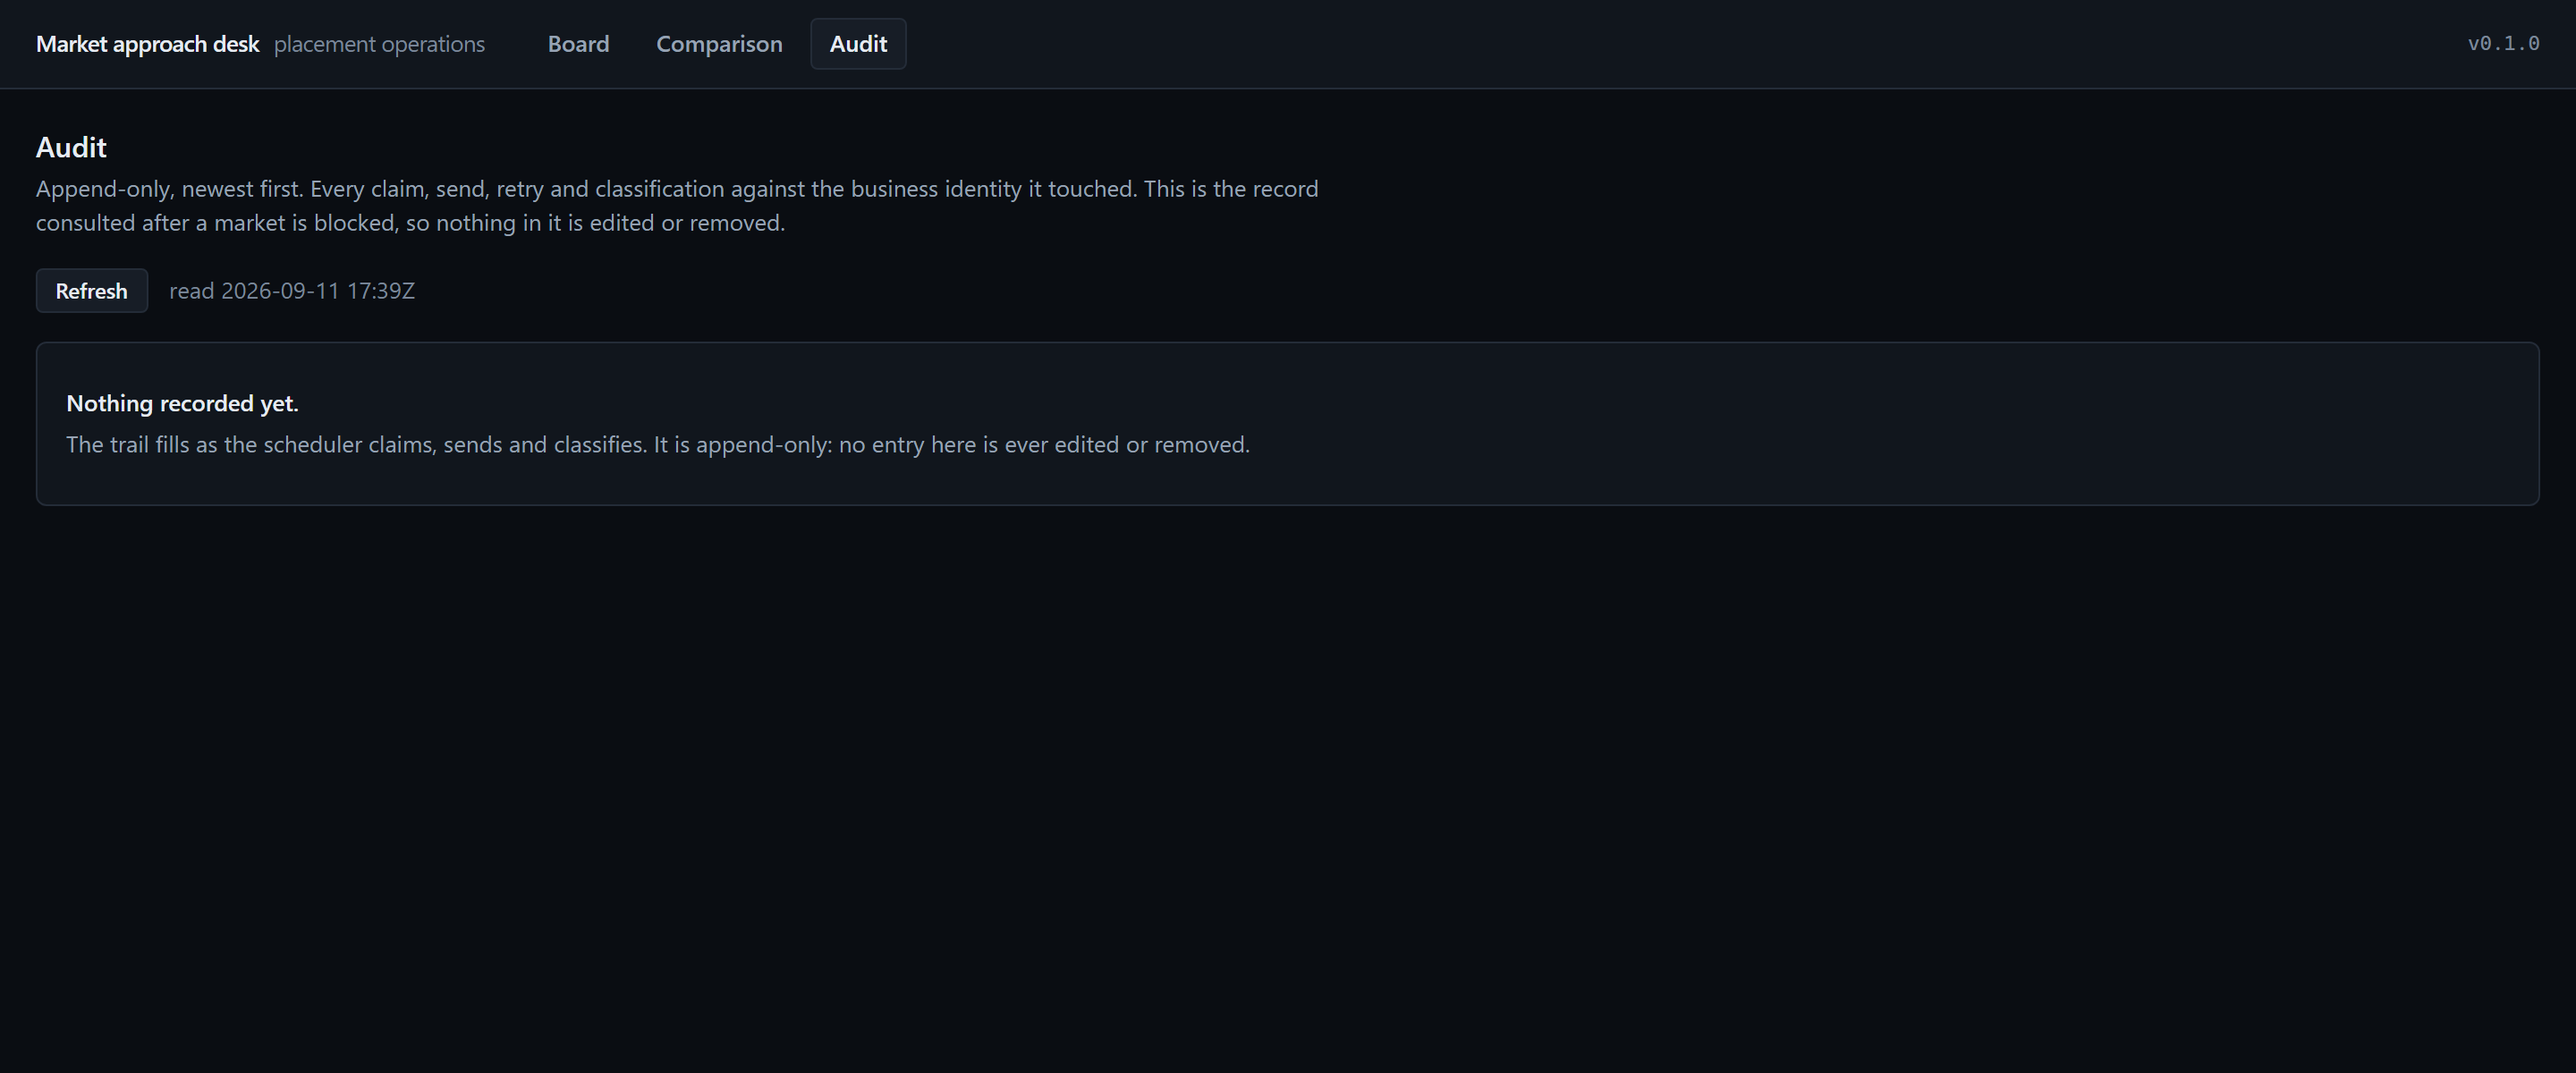
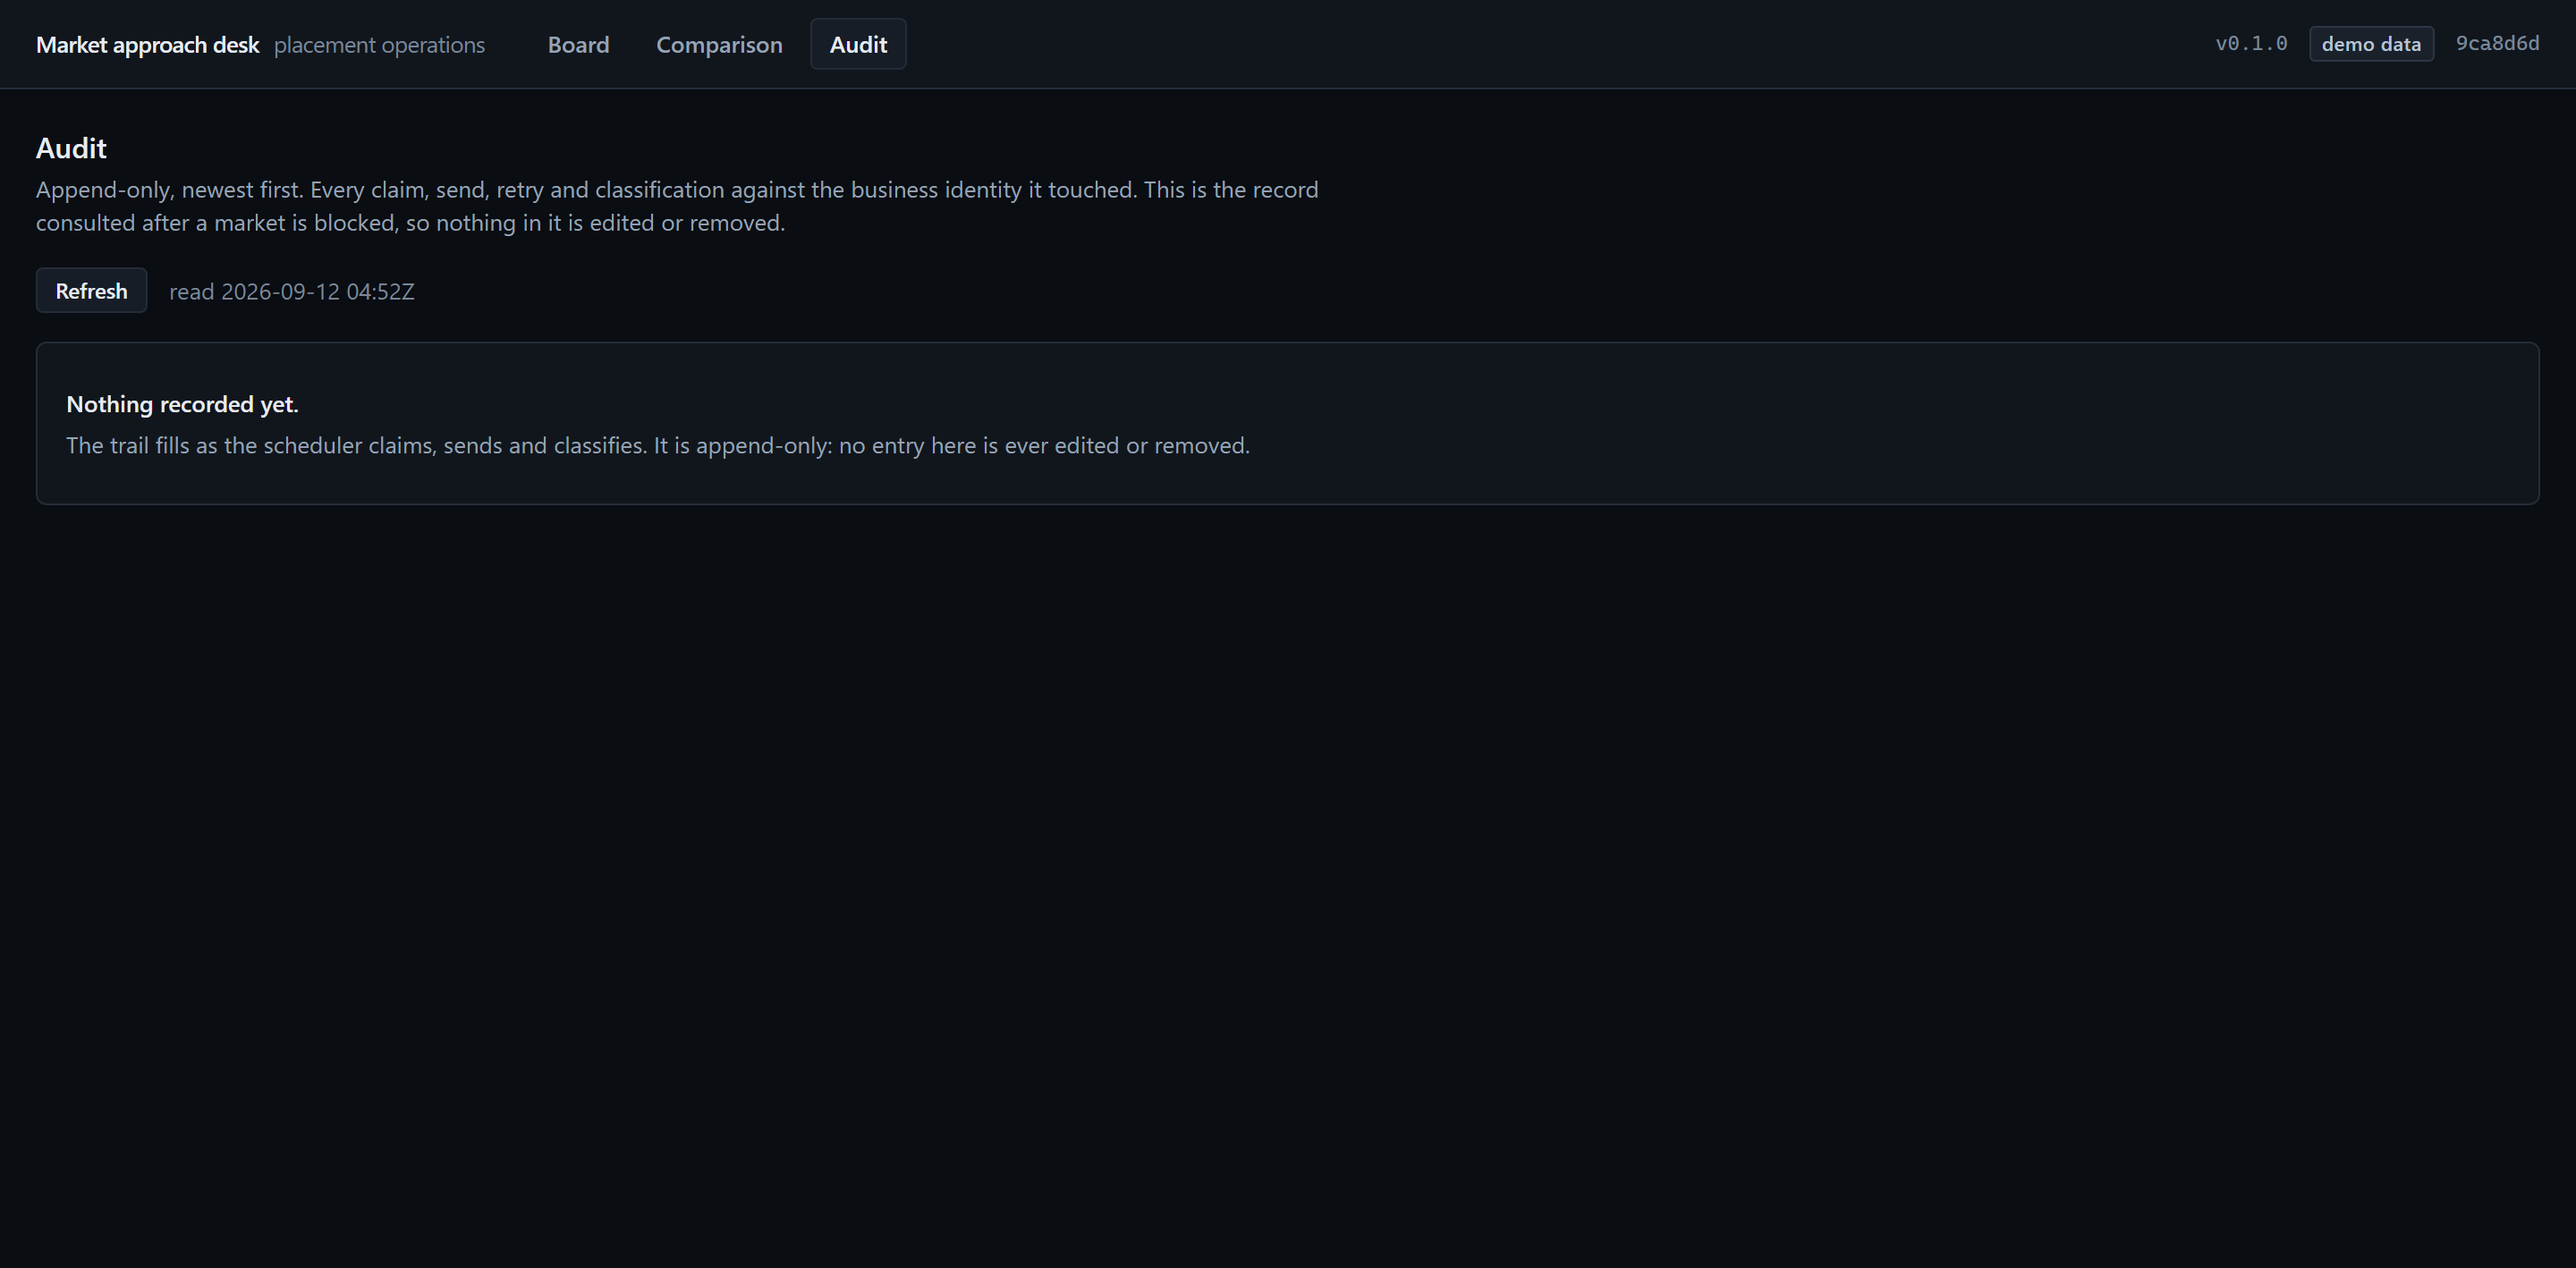
docs: record the live deployment, and retake the screenshots from it
The public demonstration is up: console on Vercel, API on Render as a Docker
web service from render.yaml, PostgreSQL on Neon. All three free tier.

README gains a live-demo section at the top carrying both URLs and the things
a reader has to know before drawing conclusions from the screen: the data is
synthetic, the Python arm is what is deployed, n8n is committed rather than
hosted, the comparison screen's 2-against-1 is measured rather than typed, no
live model has been called, and the first request after an idle period is slow
because the instance spins down.

docs/deployment.md's status section said "not yet deployed" and now records the
topology, the first-boot log, and what the public URLs actually answered.
/readyz is called out as the check that matters: /healthz touches nothing
external and MAD_POSTGRES_DSN has a localhost default, so a misspelled variable
name would produce a service that looks healthy and serves nothing.

The three screenshots are retaken from the deployed console rather than a local
run, and the README now says which they are — they carried no provenance before.

diff --git a/docs/deployment.md b/docs/deployment.md
@@ -107,18 +107,59 @@ n8n instance. That is stated on the screen itself, with the timestamp of the run
 
 ## Status
 
-**Not yet deployed.** Creating the Neon database, the Render service and the Vercel project is owner
-account action, and nothing in this repository can perform it.
+**Deployed and live.**
 
-What is verified, locally and end to end against the real image:
+| Layer | URL | Service | Plan | Region |
+|---|---|---|---|---|
+| Console | <https://market-approach-desk.vercel.app> | Vercel | Hobby | `fra1` |
+| API | <https://market-approach-desk-api.onrender.com> | Render Web Service (Docker) | Free | Frankfurt |
+| PostgreSQL | not public | Neon project `market-approach-desk`, database `mad`, PostgreSQL 16 | Free | `aws-eu-central-1` |
 
-| Step | Evidence |
+The Render service is Blueprint-managed from `render.yaml` on `main`, so every value except
+`MAD_POSTGRES_DSN` comes from the committed file. The Vercel project builds from the `frontend`
+root directory with `APPROACH_API_BASE_URL` pointing at the Render URL and nothing else set.
+
+The Neon connection string is the **direct** endpoint, not the `-pooler` one, pasted verbatim
+including `?sslmode=require&channel_binding=require`; `db/engine.py` normalises it. It exists only
+in Render's encrypted environment — not in this repository, not in any log, and not in any build
+output.
+
+### What the first boot did, observed in the Render log
+
+```
+applying migrations...
+INFO [alembic.runtime.migration] Running upgrade  -> 8c024e94d080, approach schema
+bootstrapping the demonstration...
+seeded the demonstration
+starting api on port 10000
+INFO: Application startup complete.
+==> Your service is live
+```
+
+### Verified against the public URLs
+
+| Check | Result |
 |---|---|
-| Image builds | `docker build -t mad-api:deploy .` succeeds from a clean context |
-| Migrations apply on boot | `Running upgrade  -> 8c024e94d080, approach schema` in the container log |
-| Demonstration seeds once | boot 1 `seeded the demonstration`; boot 2 `already populated; nothing written` |
-| The four routes the console reads | `/api/v1/placements`, `/api/v1/audit`, `/api/v1/stats`, `/api/v1/meta` all answer 200 against the bootstrapped database |
-| Liveness and readiness | `/healthz` and `/readyz` answer 200; `/readyz` reaches PostgreSQL |
+| `GET /healthz` | `200` `{"status":"alive","service":"market-approach-desk","version":"0.1.0"}` |
+| `GET /readyz` | `200` `{"status":"ready","postgres":"healthy"}` — the deployed process reaches Neon |
+| `GET /api/v1/meta` | `200` `demo_mode: true`, `revision: 9ca8d6d…` from `RENDER_GIT_COMMIT` |
+| `GET /api/v1/stats` | `200` `{"by_state":{"eligible":2,"sent":1,"replied":1,"blocked":1},"attempts":0}` |
+| `GET /api/v1/audit` | `200` `[]` — no scheduler execution has run, so the trail is empty |
+| `GET /api/v1/placements` | `200` — `PL-2026-0417`, Harbour Logistics Group, five carriers |
+| Console `/`, `/comparison`, `/audit` | `200`, and each renders from the API through the same-origin proxy |
+| No credential in the browser | the served HTML and all nine JS chunks contain no DSN, no Neon host and no `onrender.com` address; the only match for `APPROACH_API_BASE_URL` is the variable *name* inside an error-hint string |
 
-`/api/v1/meta` reports `revision` from `RENDER_GIT_COMMIT`, which Render sets and a local `docker
-run` does not — so it is empty locally and populated once deployed.
+`/readyz` is the check that matters here, not `/healthz`. `/healthz` deliberately touches nothing
+external, so it would answer `200` even against an unreachable database — and `MAD_POSTGRES_DSN`
+has a localhost default, which means a misspelled variable name would produce a service that looks
+healthy and serves nothing. `/readyz` reaching PostgreSQL is what proves the deployed process is
+talking to Neon.
+
+### Free-tier limitations, stated plainly
+
+- **Cold start.** The Render free instance spins down when idle; the first request after that
+  delays by roughly 50 seconds. Neon's free compute also scales to zero and wakes in a second or
+  two (`Database spun up in 1.58 sec` on first use).
+- **One instance.** The free plan runs exactly one, which is the only reason migrate-on-boot is
+  safe here. See above.
+- **No release hook.** A paid feature, which is why migrations run in the entrypoint.

diff --git a/README.md b/README.md
@@ -11,6 +11,44 @@ point.
 
 ---
 
+## Live demo
+
+**LIVE DEMO: https://market-approach-desk.vercel.app**
+
+**Backend: https://market-approach-desk-api.onrender.com**
+
+| Layer | Service | Plan | Region |
+|---|---|---|---|
+| Console | Vercel | Hobby | `fra1` |
+| API | Render Web Service (Docker) | Free | Frankfurt |
+| PostgreSQL | Neon | Free | `eu-central-1` |
+
+Read this before drawing conclusions from what is on the screen:
+
+- **The data is synthetic.** Every placement, carrier, underwriter and reply in the demonstration is
+  invented. No real insured, no real carrier and no real broker record appears in this repository or
+  in the deployed database.
+- **The Python arm is the live service.** What is deployed is the typed Python implementation; it is
+  the arm the console reads.
+- **n8n is not hosted, and does not need to be.** The workflow is committed at
+  [`n8n/market-approach.workflow.json`](n8n/market-approach.workflow.json) and imports into any n8n
+  instance; [`n8n/docker-compose.yml`](n8n/docker-compose.yml) runs one locally. Paying to host n8n
+  permanently for a portfolio demonstration would buy nothing the committed workflow does not
+  already show.
+- **The comparison screen renders a measured result, not a typed one.** n8n: **2 observed
+  approaches**. Python: **1 observed approach**. Both come from the run that wrote
+  [`docs/killtest.json`](docs/killtest.json), and CI re-runs that kill test on every push.
+- **No live AI evaluation has been performed.** The shipped package contains no HTTP client and
+  cannot reach a model provider — a guard test enforces it. What ships is a deterministic stand-in
+  classifier whose `model_id` is `stand-in`.
+- **Free tier, so the first request is slow.** The Render instance spins down when idle and a cold
+  start delays the first request by roughly 50 seconds; load it once more and it answers normally.
+  Neon's free compute also scales to zero and wakes in a second or two.
+- **The audit screen is empty on purpose.** The deployment seeds a board, not a history: no
+  scheduler execution has run against the deployed database, so there is nothing to record yet.
+
+---
+
 ## The measured result
 
 One placement, one carrier, one stage. Two scheduler executions forced to overlap at the moment the
@@ -122,6 +160,9 @@ cd n8n && docker compose up -d    # n8n on :5678, then import market-approach.wo
 ---
 
 ## What you are looking at
+
+All three screenshots below were captured from the **live deployment** at
+<https://market-approach-desk.vercel.app>, not from a local run.
 
 **The board** — every placement and the carrier panel behind it. One row is one approach: one
 carrier at one stage, which is the identity the database holds unique.

diff --git a/PROJECT_STATUS.md b/PROJECT_STATUS.md
@@ -48,7 +48,7 @@ absorbed the second approach would hide the failure this project exists to demon
 | **Exactly-once delivery** | **Not claimed** | Email is not exactly-once. The claim is *at most one accepted business approach per identity under the tested contract*, measured at the receiver. |
 | **Five of the six n8n failure modes** | **Analysed, not proven** | The blueprint names six. One — overlapping schedule executions — is demonstrated deterministically. The rest are written up in `n8n/README.md` and labelled as analysed. An analysed failure mode is not evidence. |
 | **Recovery from a dead scheduler** | **Not implemented** | A claim committed with `due_at` cleared is invisible to every later tick; there is no lease and no stale-claim sweep, so a scheduler that dies between claiming and sending strands that approach until a person looks. The direction is the safe one — not sent rather than sent twice — and the row shows as `claimed` on the board. |
-| **Deployment** | **Not yet deployed** | The stack runs locally via Docker Compose; the container image is built and verified. Creating the Render service and Neon database is owner account action. |
+| **Deployment** | **Live** | Console on Vercel at <https://market-approach-desk.vercel.app>, API on Render at <https://market-approach-desk-api.onrender.com>, PostgreSQL on Neon — all free tier. `/readyz` reaches the database and `/api/v1/meta` reports the deployed revision. See [`docs/deployment.md`](docs/deployment.md). |
 
 ---
 
